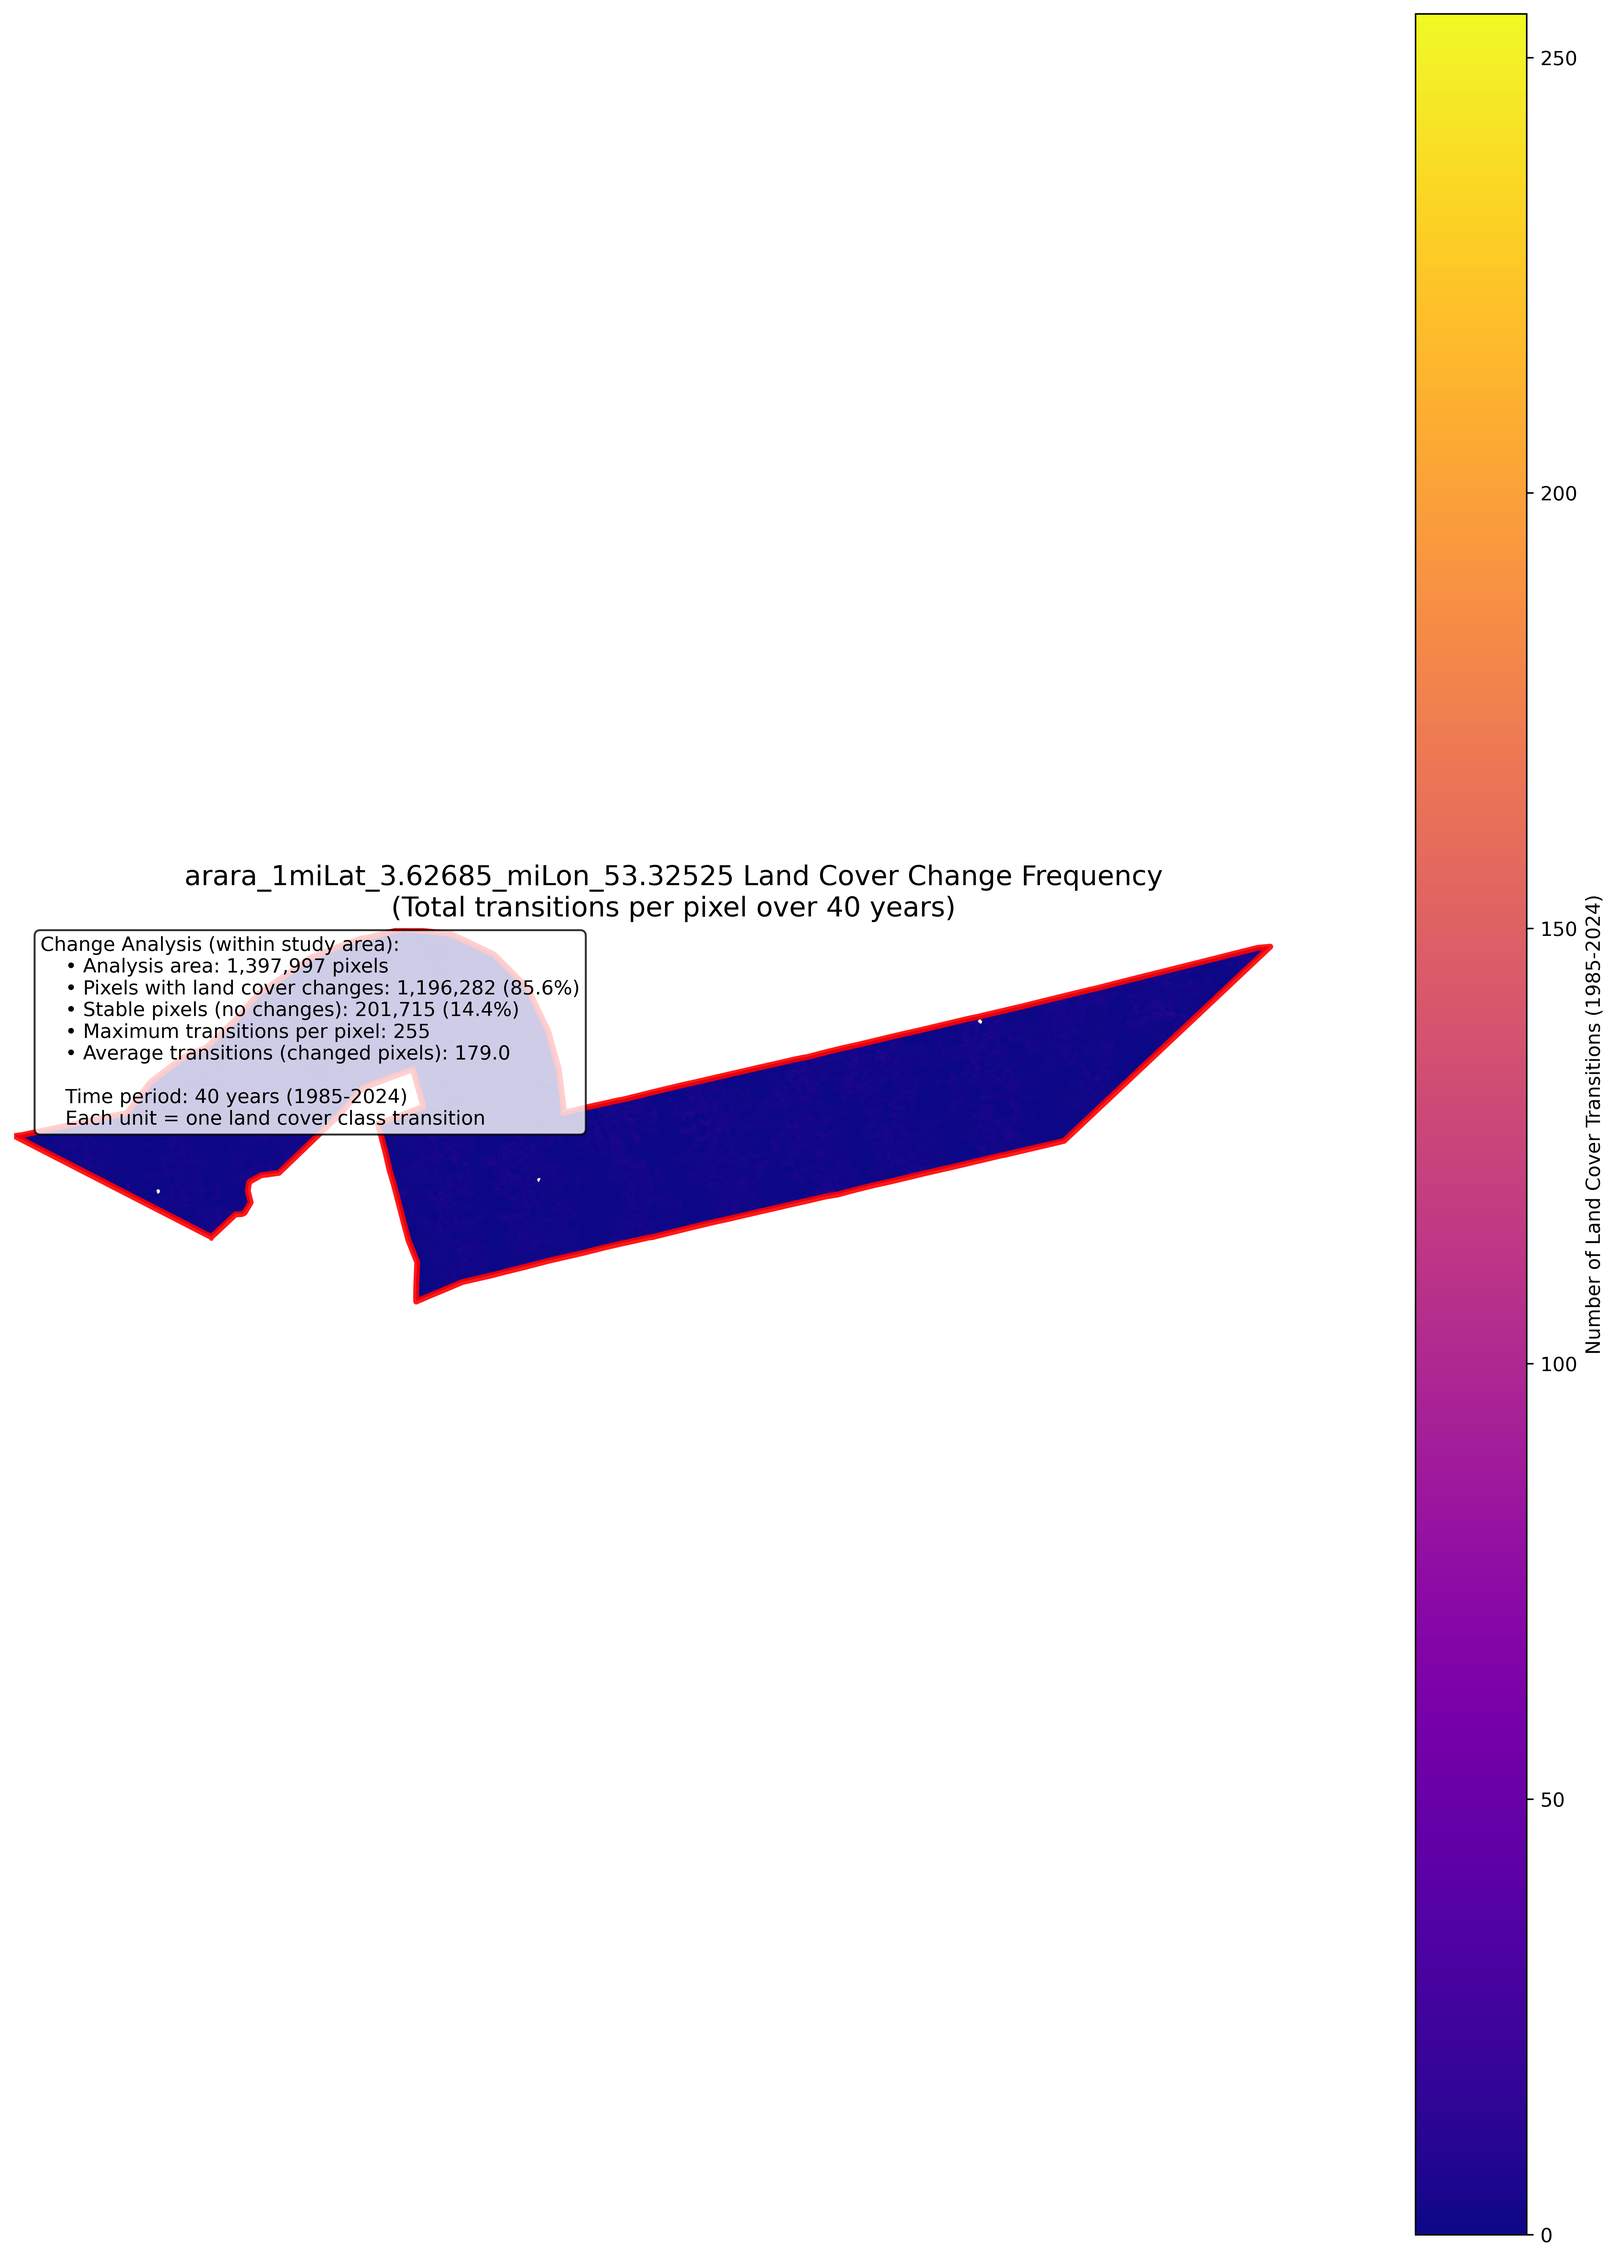
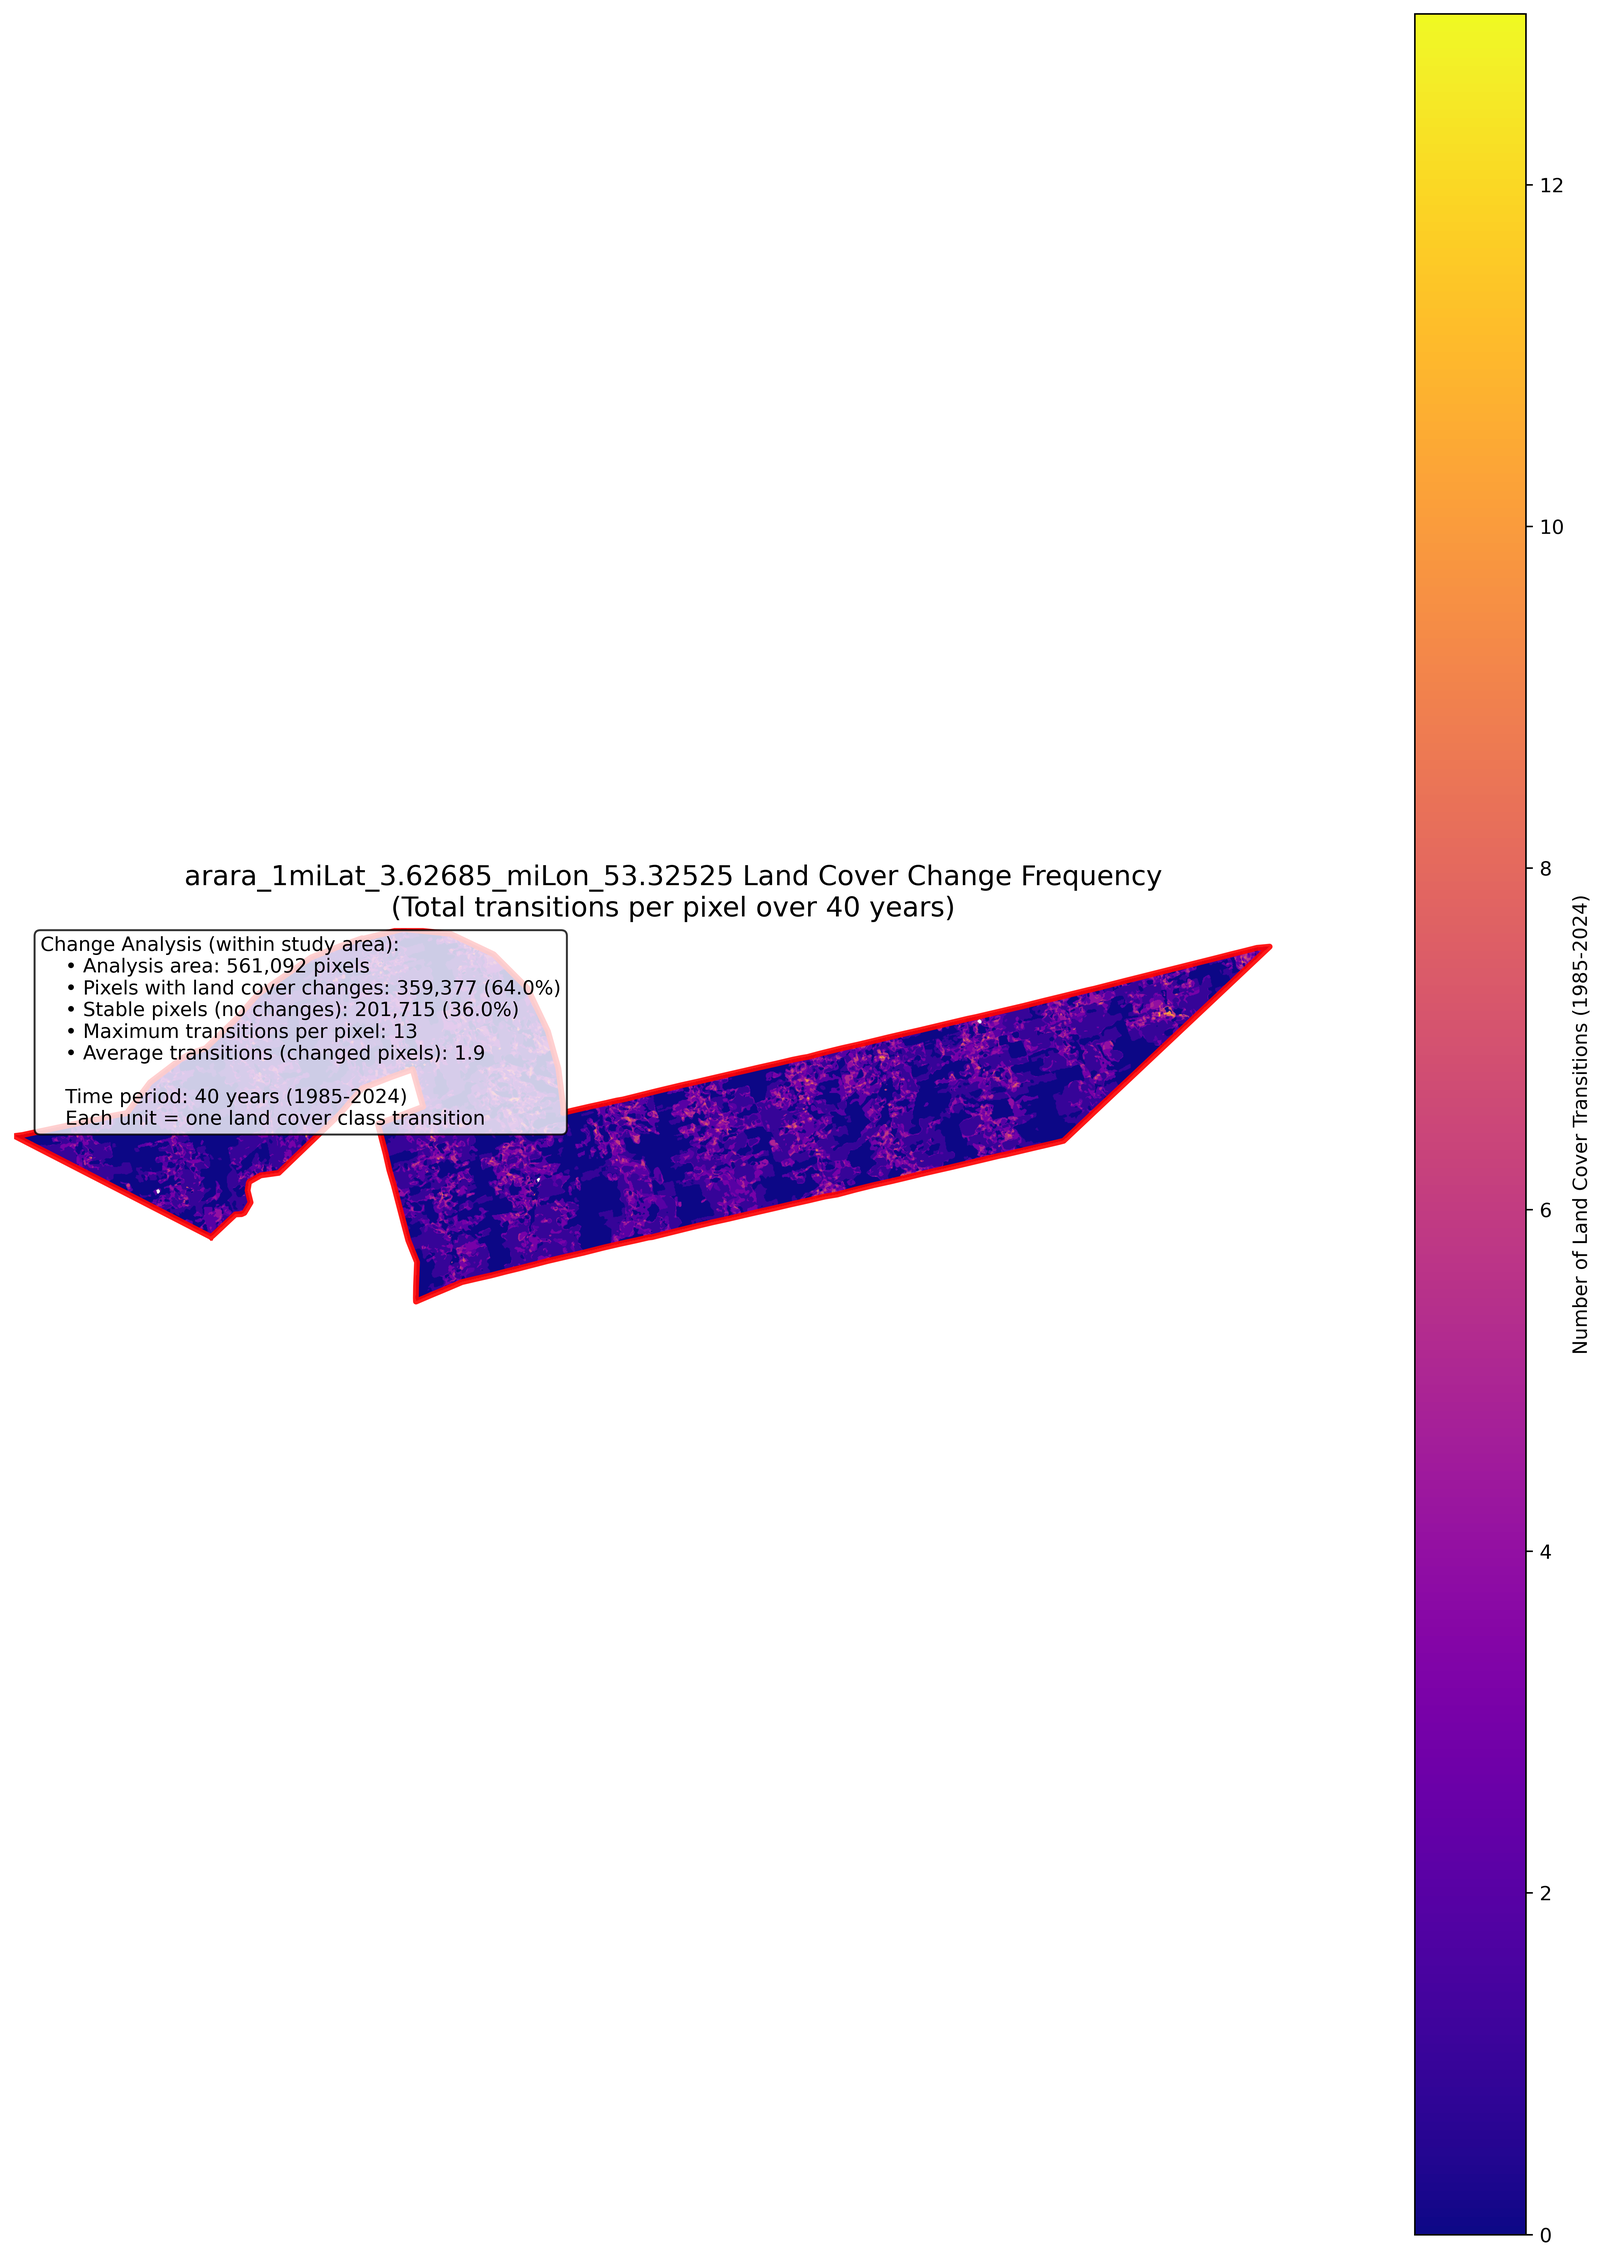
more contrast

Changed region(s): [[0.0312, 0.3741, 0.78, 0.5923], [0.936, 0.0, 0.9672, 0.9975], [0.8736, 0.0, 0.9048, 0.9975]]

diff --git a/raster_proc/batch_process/visualization.py b/raster_proc/batch_process/visualization.py
@@ -265,6 +265,7 @@ def create_changes_map(root, output_dir, file_prefix, geojson_path=None):
     # Remove any remaining fill values (255) from the analysis area calculations
     # This can happen if the mask isn't perfect
     changes_in_analysis_area = changes_in_analysis_area[changes_in_analysis_area != 255]
+    actual_analysis_pixels = len(changes_in_analysis_area)  # Actual count after removing fill values
     
     changed_pixels = np.sum(changes_in_analysis_area > 0)
     stable_pixels = np.sum(changes_in_analysis_area == 0)
@@ -272,10 +273,11 @@ def create_changes_map(root, output_dir, file_prefix, geojson_path=None):
     avg_changes = np.mean(changes_in_analysis_area[changes_in_analysis_area > 0]) if changed_pixels > 0 else 0
     
     logging.info(f"Analysis area statistics:")
-    logging.info(f"  Total analysis pixels: {total_analysis_pixels:,}")
-    logging.info(f"  Changed pixels: {changed_pixels:,} ({100*changed_pixels/total_analysis_pixels:.1f}%)")
-    logging.info(f"  Stable pixels: {stable_pixels:,} ({100*stable_pixels/total_analysis_pixels:.1f}%)")
+    logging.info(f"  Total analysis pixels: {actual_analysis_pixels:,}")
+    logging.info(f"  Changed pixels: {changed_pixels:,} ({100*changed_pixels/actual_analysis_pixels:.1f}%)")
+    logging.info(f"  Stable pixels: {stable_pixels:,} ({100*stable_pixels/actual_analysis_pixels:.1f}%)")
     logging.info(f"  Max changes: {max_changes}")
+    logging.info(f"  Note: Color scale will use range 0 to {max_changes} for better contrast")
     
     if changed_pixels == 0:
         logging.warning("No land cover changes detected in the analysis area!")
@@ -313,9 +315,9 @@ def create_changes_map(root, output_dir, file_prefix, geojson_path=None):
     
     # Calculate statistics for pixels within the valid area
     stats_text = f"""Change Analysis (within study area):
-    • Analysis area: {total_analysis_pixels:,} pixels
-    • Pixels with land cover changes: {changed_pixels:,} ({100*changed_pixels/total_analysis_pixels:.1f}%)
-    • Stable pixels (no changes): {stable_pixels:,} ({100*stable_pixels/total_analysis_pixels:.1f}%)
+    • Analysis area: {actual_analysis_pixels:,} pixels
+    • Pixels with land cover changes: {changed_pixels:,} ({100*changed_pixels/actual_analysis_pixels:.1f}%)
+    • Stable pixels (no changes): {stable_pixels:,} ({100*stable_pixels/actual_analysis_pixels:.1f}%)
     • Maximum transitions per pixel: {max_changes}
     • Average transitions (changed pixels): {avg_changes:.1f}
     
@@ -337,15 +339,15 @@ def create_changes_map(root, output_dir, file_prefix, geojson_path=None):
     _create_pngw_file(output_path, transform)
     
     logging.info(f"Saved changes frequency map to {output_path}")
-    logging.info(f"Change statistics - Analysis area: {total_analysis_pixels:,}, Changed: {changed_pixels:,} ({100*changed_pixels/total_analysis_pixels:.1f}%), Max transitions: {max_changes}")
+    logging.info(f"Change statistics - Analysis area: {actual_analysis_pixels:,}, Changed: {changed_pixels:,} ({100*changed_pixels/actual_analysis_pixels:.1f}%), Max transitions: {max_changes}")
     
     # Save detailed change statistics to CSV
     csv_path = os.path.join(output_dir, f'{file_prefix}_change_statistics.csv')
     with open(csv_path, 'w') as f:
         f.write("Metric,Value,Percentage\n")
-        f.write(f"Analysis area pixels,{total_analysis_pixels},100.0%\n")
-        f.write(f"Stable pixels,{stable_pixels},{100*stable_pixels/total_analysis_pixels:.1f}%\n")
-        f.write(f"Changed pixels,{changed_pixels},{100*changed_pixels/total_analysis_pixels:.1f}%\n")
+        f.write(f"Analysis area pixels,{actual_analysis_pixels},100.0%\n")
+        f.write(f"Stable pixels,{stable_pixels},{100*stable_pixels/actual_analysis_pixels:.1f}%\n")
+        f.write(f"Changed pixels,{changed_pixels},{100*changed_pixels/actual_analysis_pixels:.1f}%\n")
         f.write(f"Maximum transitions,{max_changes},\n")
         f.write(f"Average transitions (changed pixels),{avg_changes:.2f},\n")
         
@@ -355,7 +357,7 @@ def create_changes_map(root, output_dir, file_prefix, geojson_path=None):
             change_counts = np.bincount(changes_in_analysis_area.flatten())
             for i, count in enumerate(change_counts):
                 if count > 0:
-                    f.write(f"{i} transitions,{count},{100*count/total_analysis_pixels:.2f}%\n")
+                    f.write(f"{i} transitions,{count},{100*count/actual_analysis_pixels:.2f}%\n")
     
     logging.info(f"Saved detailed change statistics to {csv_path}")
 
